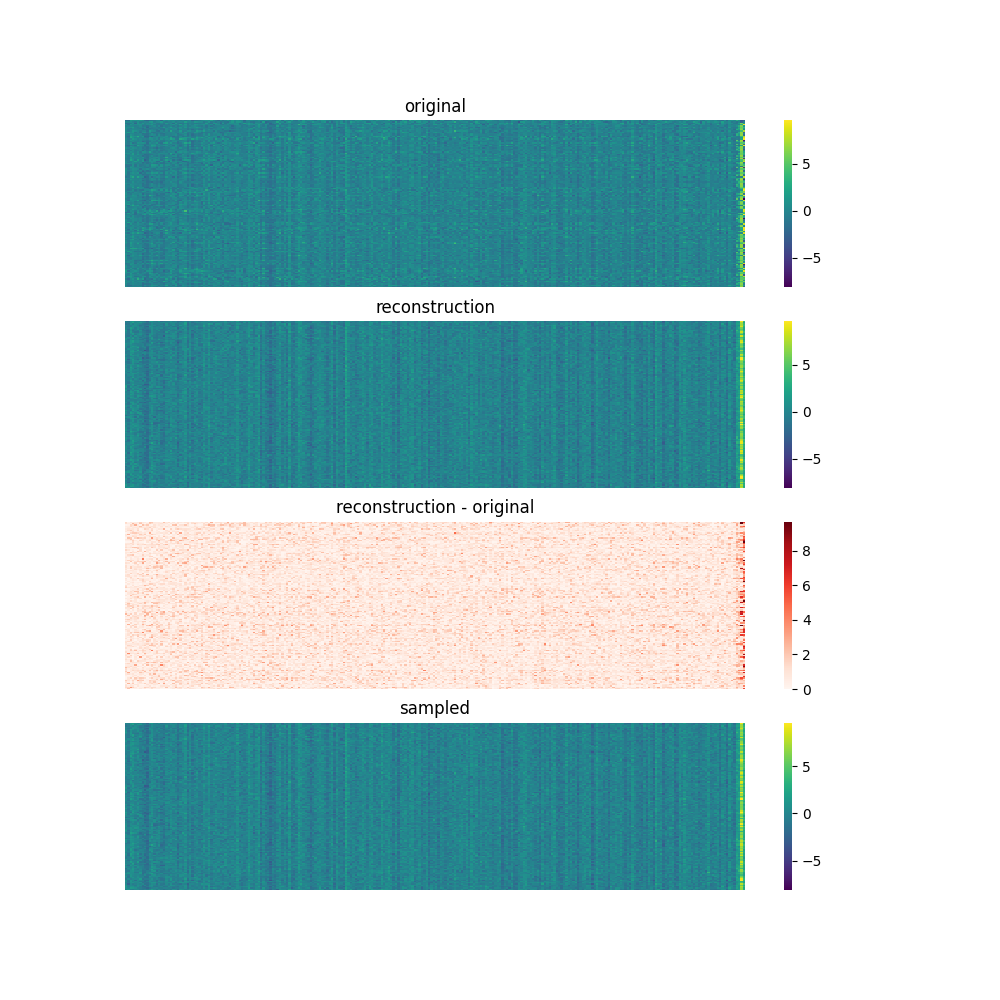
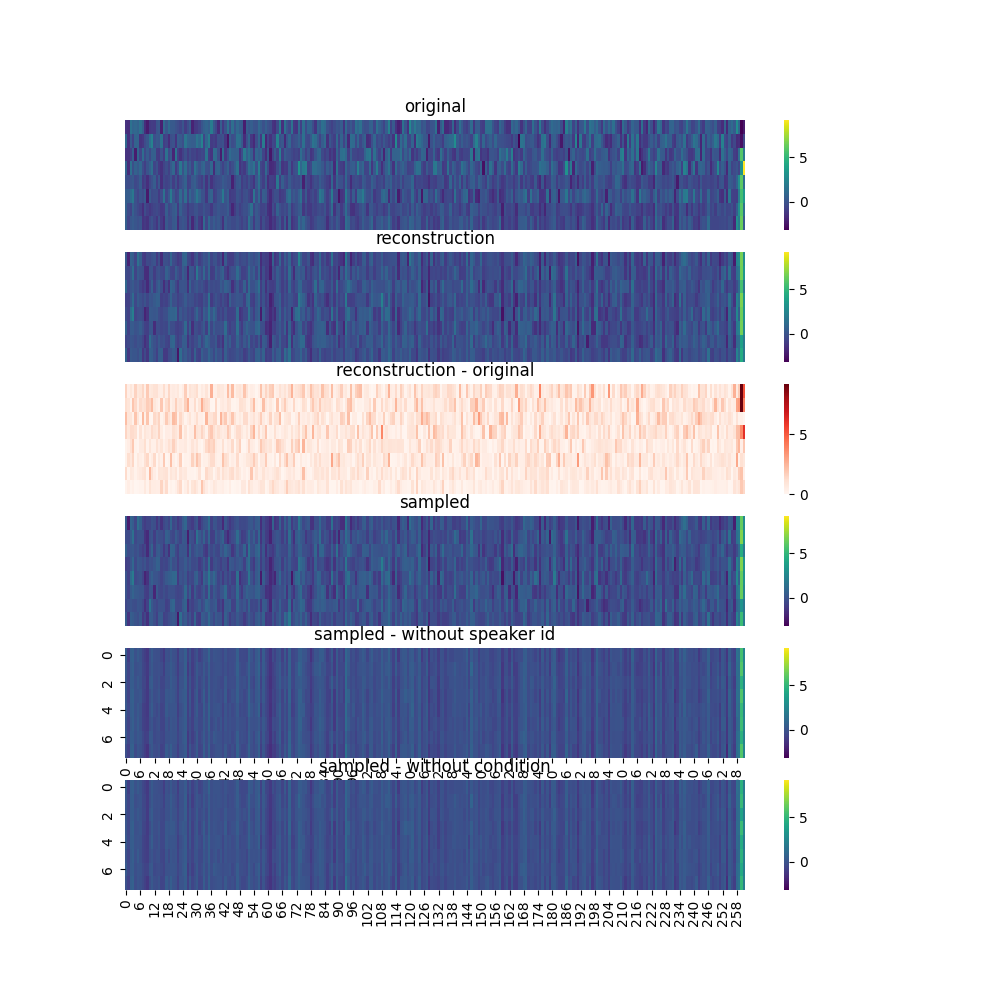
changes

diff --git a/train_onevae.py b/train_onevae.py
@@ -43,7 +43,7 @@ def evaluate(model, eval_dl, vocex, stats, phone2idx):
     is_first = True
     with torch.no_grad():
         for batch in eval_dl:
-            vocex_results = vocex.model(batch["mel"], inference=True)
+            vocex_results = vocex(batch["mel"], inference=True)
             x = create_input(batch, vocex_results, stats)
             condition = create_condition(batch, phone2idx)
             output, mean, logvar = model(x, condition, batch["speaker"])
@@ -120,9 +120,10 @@ def evaluate(model, eval_dl, vocex, stats, phone2idx):
                     vmax=max_val,
                 )
                 # disable x and y ticks
-                for i in range(4):
+                for i in range(6):
                     ax[i].set_xticks([])
                     ax[i].set_yticks([])
+                wandb.log({"val/heatmap": wandb.Image(plt)})
                 plt.savefig("test.png")
                 plt.close()
             is_first = False
@@ -184,18 +185,20 @@ def main():
     else:
         args = parser.parse_args_into_dataclasses()[0]
 
-    wandb.init(
-        name=args.wandb_run_name,
-        project=args.wandb_project,
-        mode=args.wandb_mode,
-    )
-    wandb.config.update(args)
-
     accelerator = Accelerator()
+
+    if accelerator.is_local_main_process:
+        wandb.init(
+            name=args.wandb_run_name,
+            project=args.wandb_project,
+            mode=args.wandb_mode,
+        )
+        wandb.config.update(args)
 
     with accelerator.main_process_first():
         libritts = load_dataset(args.dataset)
         vocex = Vocex.from_pretrained(args.vocex)
+        vocex_model = vocex.model
         if not Path("training/data").exists():
             Path("training/data").mkdir()
         if not Path("training/data/speaker2idx.json").exists():
@@ -271,8 +274,8 @@ def main():
         num_training_steps=num_training_steps,
     )
 
-    train_dl, eval_dl, model, optimizer, scheduler = accelerator.prepare(
-        train_dl, eval_dl, model, optimizer, scheduler
+    train_dl, eval_dl, model, optimizer, scheduler, vocex_model = accelerator.prepare(
+        train_dl, eval_dl, model, optimizer, scheduler, vocex_model
     )
 
     model.train()
@@ -285,7 +288,7 @@ def main():
 
     for _ in range(num_epochs):
         for batch in train_dl:
-            vocex_results = vocex.model(batch["mel"], inference=True)
+            vocex_results = vocex_model(batch["mel"], inference=True)
             x = create_input(batch, vocex_results, stats)
             condition = create_condition(batch, phone2idx)
             speaker = batch["speaker"]
@@ -338,11 +341,13 @@ def main():
 
             if step % args.eval_every == 0 and step > 0:
                 if accelerator.is_local_main_process:
-                    evaluate(model, eval_dl, vocex, stats, phone2idx)
+                    evaluate(model, eval_dl, vocex_model, stats, phone2idx)
                 accelerator.wait_for_everyone()
 
             if step % args.save_every == 0 and step > 0:
-                pass
+                if accelerator.is_local_main_process:
+                    accelerator.save(model.state_dict(), Path(args.checkpoint_dir) / f"model-{step}.pt")
+                accelerator.wait_for_everyone()
 
             progress_bar.update(1)
             step += 1

diff --git a/models/onevae.py b/models/onevae.py
@@ -21,27 +21,41 @@ class Encoder(nn.Module):
         return mean, logvar
 
 class Decoder(nn.Module):
-    def __init__(self, latent_size, hidden_size, output_size, num_speakers, condition_size, data_dropout_p, num_layers=3):
+    def __init__(
+            self,
+            latent_size,
+            hidden_size,
+            output_size,
+            num_speakers,
+            condition_size,
+            data_dropout_p,
+            num_layers=3
+        ):
         super(Decoder, self).__init__()
         self.condition_layer = nn.Linear(condition_size, hidden_size)
-        self.speaker_embedding = nn.Embedding(num_speakers, hidden_size)
+        self.speaker_embedding = nn.Embedding(num_speakers+1, hidden_size)
+        self.speaker_unk_idx = num_speakers
         self.fc1 = nn.Linear(latent_size, hidden_size)
         self.layers = nn.ModuleList([nn.Linear(hidden_size, hidden_size) for _ in range(num_layers)])
         self.fc2 = nn.Linear(hidden_size, output_size)
         self.data_dropout_p = data_dropout_p
+        self.dropout = nn.Dropout(0.2)
+        self.layer_norms = nn.ModuleList([nn.LayerNorm(hidden_size) for _ in range(num_layers+1)])
 
     def forward(self, z, condition, speaker):
         hidden_start = torch.relu(self.fc1(z))
-        if condition is not None:
-            if self.data_dropout_p > torch.rand(1) or not self.training:
-                hidden_start = hidden_start + torch.relu(self.condition_layer(condition))
-        if speaker is not None:
-            if self.data_dropout_p > torch.rand(1) or not self.training:
-                hidden_start = hidden_start + self.speaker_embedding(speaker)
+        if condition is not None and (self.data_dropout_p > torch.rand(1) or not self.training):
+            hidden_start = hidden_start + torch.relu(self.condition_layer(condition))
+        else:
+            hidden_start = hidden_start + torch.relu(self.condition_layer(torch.zeros_like(condition)))
+        if speaker is not None and (self.data_dropout_p > torch.rand(1) or not self.training):
+            hidden_start = hidden_start + self.speaker_embedding(speaker)
+        else:
+            hidden_start = hidden_start + self.speaker_embedding(torch.zeros_like(speaker)+self.speaker_unk_idx)
         hidden = hidden_start
-        for layer in self.layers:
-            hidden = hidden_start + torch.relu(layer(hidden))
-        output = self.fc2(hidden)
+        for i, layer in enumerate(self.layers):
+            hidden = hidden_start + torch.relu(self.layer_norms[i](layer(hidden)))
+        output = self.fc2(self.layer_norms[-1](hidden))
         return output
 
 class ConditionalVAE(nn.Module):

diff --git a/training/args.py b/training/args.py
@@ -9,19 +9,19 @@ class Args:
     speaker2idx_url: str = "https://huggingface.co/datasets/cdminix/libritts-r-aligned/raw/main/data/speaker2idx.json"
     phone2idx_url: str = "https://huggingface.co/datasets/cdminix/libritts-r-aligned/raw/main/data/phone2idx.json"
     stats_url: str = "https://huggingface.co/datasets/cdminix/libritts-r-aligned/raw/main/data/stats.json"
-    num_workers: int = 96
+    num_workers: int = 16
     prefetch_factor: int = 2
     # model
     num_enc_layers: int = 3
     num_dec_layers: int = 3
-    hidden_size: int = 256
-    latent_size: int = 32
+    hidden_size: int = 512
+    latent_size: int = 64
     # training
     max_epochs: int = 20
     learning_rate: float = 1e-4
     warmup_steps: int = 1000
     weight_decay: float = 0.01
-    log_every: int = 100
+    log_every: int = 500
     eval_every: int = 500
     save_every: int = 5000
     checkpoint_dir: str = "checkpoints"
@@ -30,7 +30,7 @@ class Args:
     max_grad_norm: float = 1.0
     data_dropout_p: float = 0.1
     # wandb
-    wandb_project: str = "onevae_32"
+    wandb_project: str = "onevae_64_deeper_dropout_layer_norm"
     wandb_run_name: str = None
     wandb_mode: str = "online"
     # vocex
